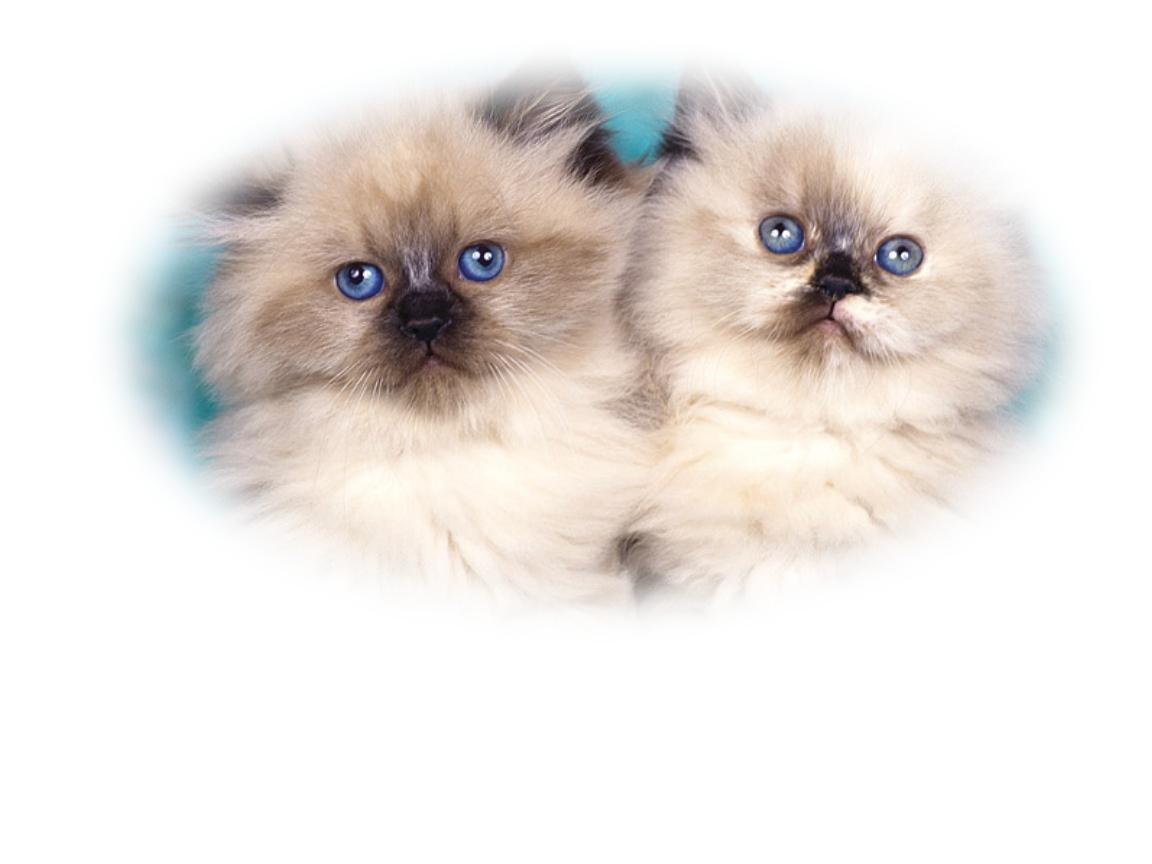
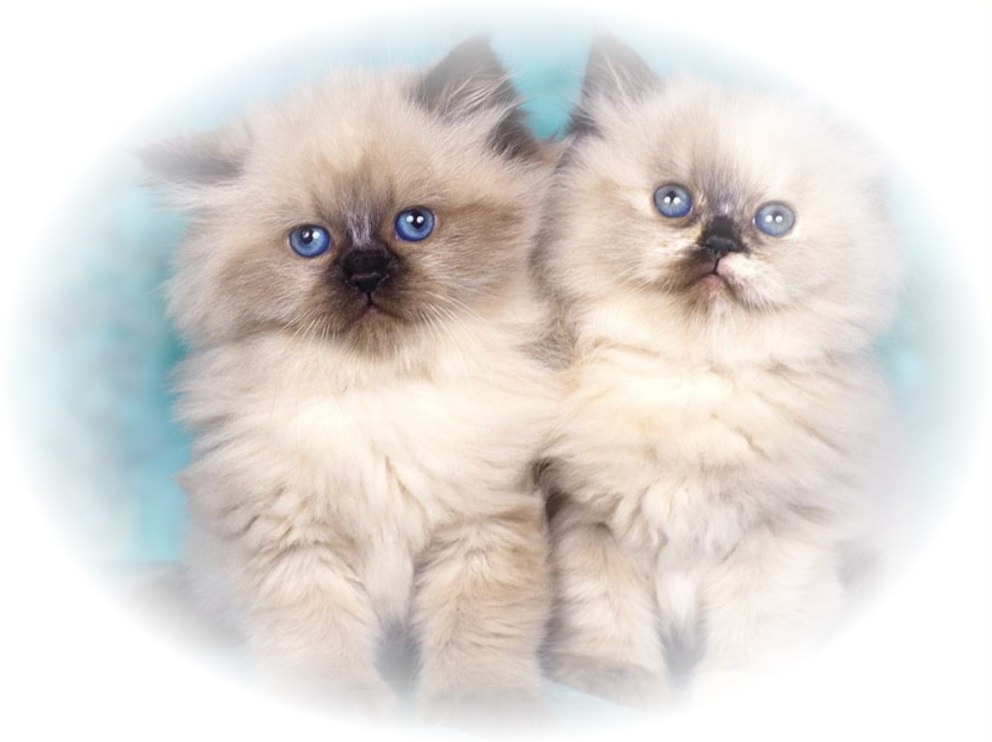
update matte doc

diff --git a/modules/photoeffects/samples/tint_sample.cpp b/modules/photoeffects/samples/tint_sample.cpp
@@ -23,13 +23,8 @@ int valueHue = 0;
 int valueDen = 50;
 
 void preparePicture();
-<<<<<<< HEAD
-void trackbarTint(int pos, void *);
-void trackbarDen(int pos, void *);
-=======
 void trackbarTint(int, void *);
 void trackbarDen(int, void *);
->>>>>>> upstream/master
 int processArguments(int argc, char** argv, Mat &image);
 
 int main(int argc, char** argv)
@@ -73,11 +68,8 @@ void preparePicture()
     Vec3b hsv;
     for (int j = 0; j < 360; j++)
     {
-<<<<<<< HEAD
-        hsv[0] = (j + 1) / 2;
-=======
         hsv[0] = (uchar)((j + 1) / 2);
->>>>>>> upstream/master
+
         hsv[1] = 255;
         hsv[2] = 255;
         for (int i = 0; i < 20; i++)
@@ -102,11 +94,7 @@ void trackbarTint(int pos, void*)
     imshow(nameWinFilter, filterImg);
 }
 
-<<<<<<< HEAD
-void trackbarDen(int pos, void *)
-=======
 void trackbarDen(int, void *)
->>>>>>> upstream/master
 {
     float den = (float)valueDen / 100.0f;
     tint(img, filterImg, ColorTint, den);

diff --git a/modules/photoeffects/samples/matte_sample.cpp b/modules/photoeffects/samples/matte_sample.cpp
@@ -32,6 +32,7 @@ int main(int argc, char** argv)
     namedWindow(ORIGINAL_IMAGE, WINDOW_AUTOSIZE);
     imshow(ORIGINAL_IMAGE, src);
     matte(src, matteImage, sigma);
+
     namedWindow(MATTE_IMAGE, WINDOW_AUTOSIZE);
     imshow(MATTE_IMAGE, matteImage);
     waitKey(0);

diff --git a/modules/photoeffects/doc/matte.rst b/modules/photoeffects/doc/matte.rst
@@ -3,22 +3,24 @@ Matte
 =======================================
 Increases the brightness of peripheral pixels.
 
-.. cpp:function:: int matte(cv::InputArray src, cv::OutputArray dst, cv::Point firstPoint, cv::Point secondPoint, float sigma)
+.. cpp:function:: void matte(cv::InputArray src, cv::OutputArray dst, float sigma)
 
    :param src: RGB image.
    :param dst: Destination image of the same size and the same type as **src**.
-   :param firstPoint: The first point for creating ellipse.
-   :param secondPoint: The second point for creatin ellipse.
-   :param sigma: The deviation in the Gaussian blur effect.
-   :return: Error code.
+   :param sigma: Size of the white area at the edges.
 
 The algorithm.
 
-#. Create new image with white background for mask.
-#. Draw black ellipse inscribed in a rectangle that is defined by two opposite corner points (**firstPoint** and **secondPoint**) on the mask image. It's a meaning part.
-#. Apply gaussian blur to the meaning part to make fade effect.
-#. Convolve mask with the image.
-#. Convert resulting image to the same color format as **src**.
+#. For every pixel of the src image calculate  dist and  coefficient.
+#. Dist is an amount, which describes a distance from the current pixel to border of the ellipse.
+#. Coefficient is a number which cuts a part of the channel's intensity of the src image (value is in the range  [0, 1] ).
+#. New value stores to the dst image.
+#. The  coefficient is calculated by the following formula:
+
+    coef = 1 - ( ( dist - 1 ) / radiusMax );
+    coef = -2 * coef * coef * coef * coef * coef + 4 * coef * coef * coef - coef,
+    
+    where  radiusMax is a maximum distance from border of the ellipse to the farthest pixel (a corner of the image).
 
 Example.
 
